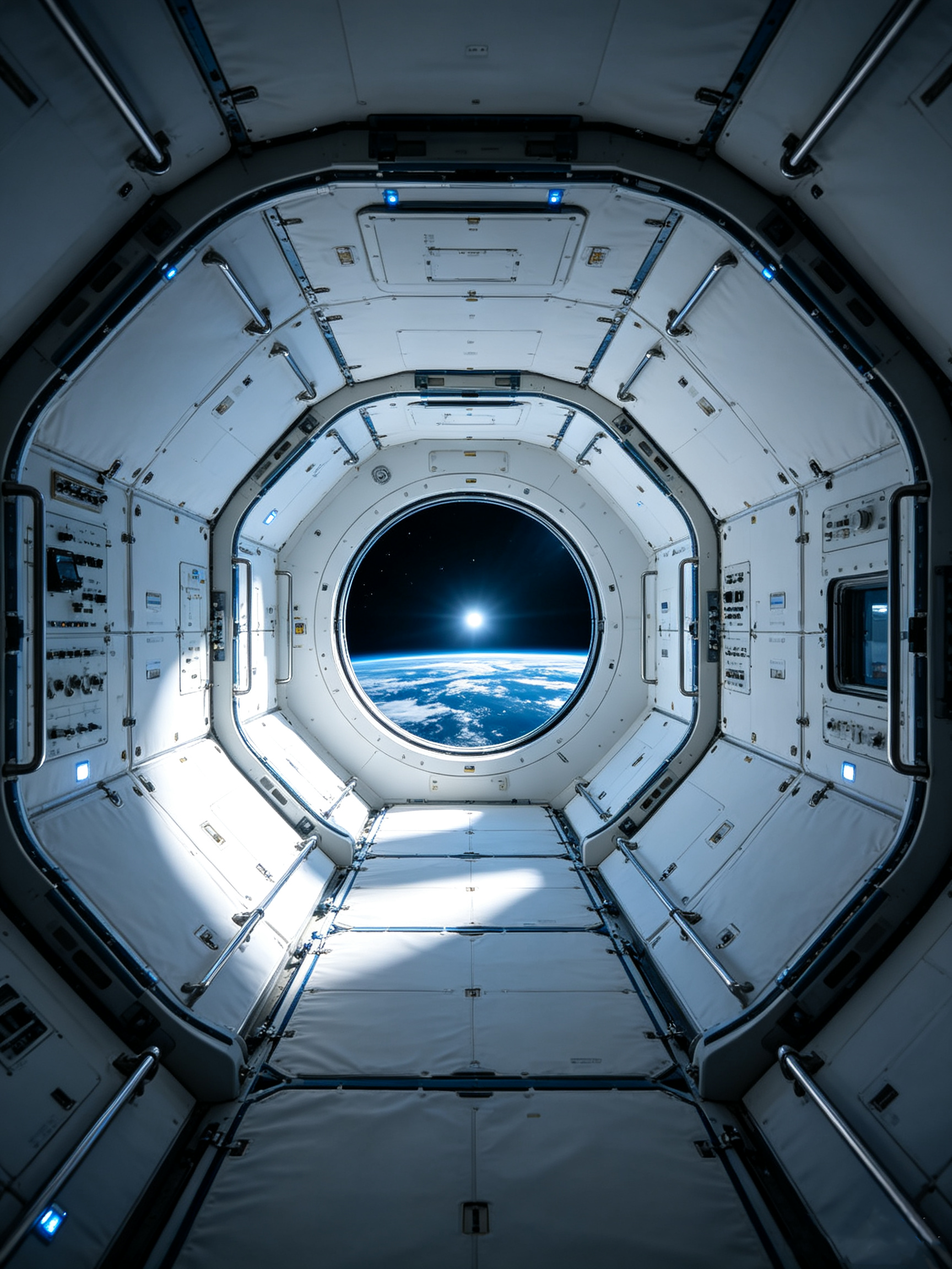
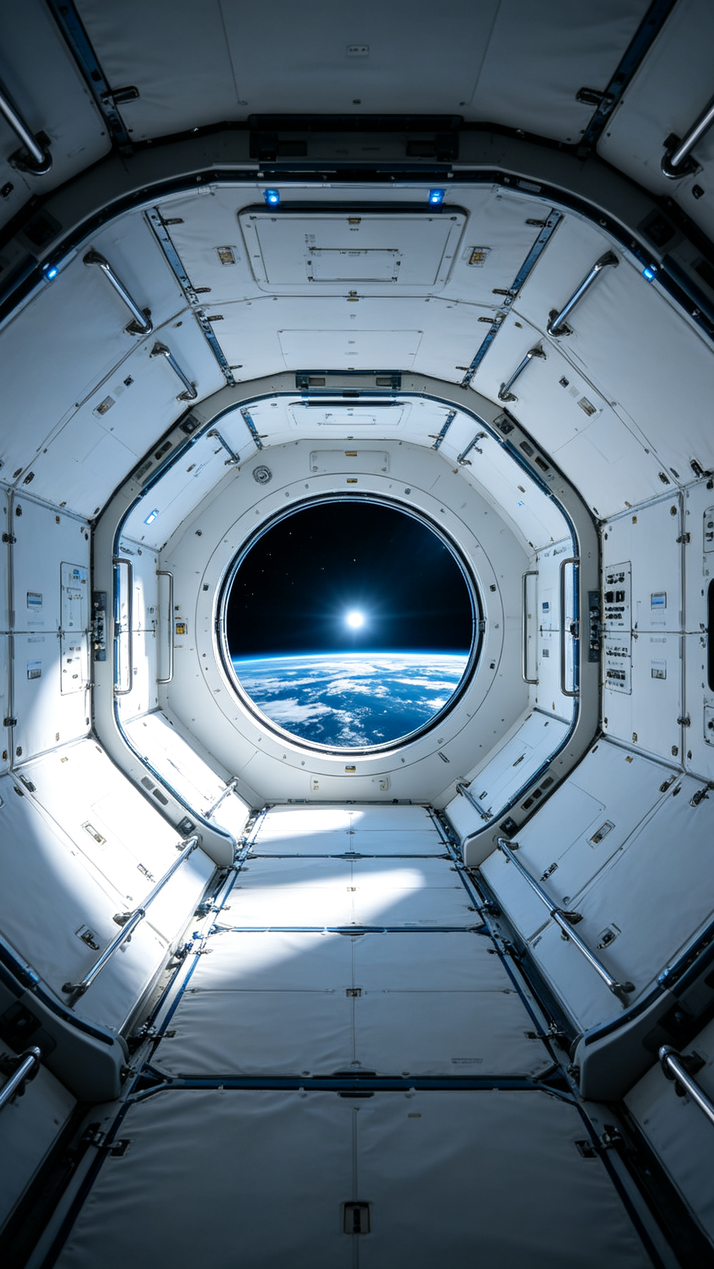
feat(theme): 新增 chapterPage 章节标题页，重做 contents 目录页面板
新增 chapterPage 页面类型：左侧 35% 纯色深蓝面板（logo + 编号水印）
+ 右侧白底标题区，用于分隔演示文稿的各个章节。编号通过
<div class="chapter-num">01</div> 手动放置。

contents 目录页同步调整：
- 左侧图片面板改用 9/16 固定比例 + 满高，不再靠百分比撑高，
  换成右侧 25px 蓝色实边；配套替换航天小图素材
- 目录项数字放弃渐变裁切文字（各渲染器表现不一致），改为实色 #dbe3f2
- 注释掉背景的 CONTENTS 水印字样
- 图片默认居中（:root img）取代仅 contentPage 生效的 margin

文档：SKILL.md 补充五种页面类型一览表与章节页写法示例；
组件体系文档补充目录页、章节页的实际示例。

diff --git a/themes/academic/index.css b/themes/academic/index.css
@@ -401,24 +401,24 @@ mark[center] {
   content: '';
   position: absolute;
   left: -10px;
-  top: -10px;
-  width: 40%;
-  height: 110%;
+  top: 0px;
+  aspect-ratio: 9/16;
+  height: 100%;
   background-image: url("../../themes/academic/images/航天小图.png");
   background-size: auto 100%;
   background-repeat: no-repeat;
+  background-position: center center;
   z-index: -1;
-  border-radius: 0 55% 55% 0;
+  /* border-radius: 0 55% 55% 0; */
   opacity: 1;
-  border: 10px solid rgb(40, 113, 196);
-  border-width: 10px 50px 50px 10px;
+  border-right: 25px solid rgb(40, 113, 196);
 }
 :root.contents h2{
   color: #ffffffdc;
   position: relative;
   margin-bottom: 40px;
 }
-:root.contents h2::before {
+/* :root.contents h2::before {
   content: 'CONTENTS';
   position: absolute;
   bottom: -30px;
@@ -427,7 +427,7 @@ mark[center] {
   font-size: 2.308rem;
   opacity: 0.1;
   z-index: 1;
-}
+} */
 :root.contents ul{
   font-size: 0.885rem;
   padding-left: 120px;
@@ -441,10 +441,11 @@ mark[center] {
 :root.contents ul li strong {
   font-size: 1.923rem;
   line-height: 60px;
-  background-image:-webkit-linear-gradient(105deg, transparent, #e7efff); 
+  /* background-image:-webkit-linear-gradient(105deg, transparent, #e7efff); 
 	-webkit-background-clip: text; 
 	-webkit-text-fill-color: transparent; 
-	text-shadow: 2px 2px 20px #0000000d;
+	text-shadow: 2px 2px 20px #0000000d; */
+  color: #dbe3f2;
   vertical-align: middle;
   margin-right: 20px;
 }
@@ -490,8 +491,147 @@ mark[center] {
 :root.contentPage {
   background: #fff;
 }
-:root.contentPage img {
-  margin: 5px;
+:root img {
+  display: block;
+  margin: auto;
+}
+
+/* ================================================================
+   章节标题页 — 左侧深蓝学术面板 + 右侧白底标题区
+   ================================================================ */
+
+/*
+ * 设计理念：左侧 35% 纯色深蓝面板 + logo 营造学术质感，
+ * 右侧白色区域放置章节标题。
+ *
+ * 用法：
+ *   <!-- _class: chapterPage -->
+ *   ## 章节标题
+ *   ### 副标题或描述
+ *
+ * 章节编号通过手动放置编号元素控制：
+ *   <div class="chapter-num">01</div>
+ */
+
+:root.chapterPage {
+  text-align: left;
+  justify-content: center;
+  background: #fff;
+  color: #003f88;
+  padding: 0 80px 0 calc(35% + 60px);
+  gap: 16px;
+}
+:root.chapterPage header,
+:root.chapterPage footer {
+  display: none;
+}
+
+/* ---- 左侧深蓝面板：纯色 + logo ---- */
+:root.chapterPage::before {
+  content: '';
+  position: absolute;
+  left: 0;
+  top: 0;
+  width: 35%;
+  height: 100%;
+  /* 数字：巨型水印，居中偏上（底部留空给 logo） */
+  display: flex;
+  align-items: center;
+  justify-content: center;
+  color: rgba(255, 255, 255, 0.055);
+  font-size: 6.5rem;
+  font-weight: 800;
+  letter-spacing: 2px;
+  text-align: center;
+  padding-bottom: 90px;
+  box-sizing: border-box;
+  /* 多层背景 */
+  background:
+    /* logo */
+    url("../../themes/academic/images/logo.svg") no-repeat center bottom 50px / 140px auto,
+    /* 纯色底色 */
+    #003f88;
+}
+
+/* ---- 章节编号手动覆盖（可选） — 渐变文字水印 ---- */
+:root.chapterPage .chapter-num {
+  position: absolute;
+  left: 0;
+  top: 50%;
+  transform: translateY(-50%);
+  width: 35%;
+  text-align: center;
+  font-size: 5.5rem;
+  font-weight: 800;
+  /* background: linear-gradient(180deg,
+    rgba(255, 255, 255, 0.14) 0%,
+    rgba(255, 255, 255, 0.04) 100%);
+  -webkit-background-clip: text;
+  background-clip: text;
+  -webkit-text-fill-color: transparent; */
+  color: #dbe3f2;
+  pointer-events: none;
+  z-index: 1;
+  line-height: 0.9;
+  letter-spacing: 2px;
+  margin: 0;
+  padding: 0;
+}
+/* 手动编号下方的装饰短横线 */
+/* :root.chapterPage .chapter-num::after {
+  content: '';
+  position: absolute;
+  left: 50%;
+  bottom: -20px;
+  transform: translateX(-50%);
+  width: 36%;
+  height: 1.5px;
+  background: linear-gradient(90deg,
+    transparent 0%,
+    rgba(255, 255, 255, 0.25) 25%,
+    rgba(255, 255, 255, 0.25) 75%,
+    transparent 100%);
+} */
+
+/* ---- 向后兼容：.chapter-label（已弃用） ---- */
+:root.chapterPage .chapter-label {
+  display: none;
+}
+
+/* ---- 右侧标题区 ---- */
+
+/* 章节主标题 */
+:root.chapterPage h1 {
+  font-size: 2rem;
+  color: #003f88;
+  font-weight: 600;
+  letter-spacing: 2px;
+  margin: 0;
+}
+:root.chapterPage h2 {
+  font-size: 2rem;
+  color: #003f88;
+  font-weight: 600;
+  letter-spacing: 2px;
+  margin: 0;
+}
+/* 章节副标题 / 描述 */
+:root.chapterPage h3 {
+  font-size: 1rem;
+  color: #64748b;
+  font-weight: 400;
+  letter-spacing: 1px;
+  margin: 0;
+  padding: 0;
+}
+:root.chapterPage h3::before {
+  display: none;
+}
+:root.chapterPage p {
+  color: #64748b;
+  font-size: 0.923rem;
+  letter-spacing: 1px;
+  margin: 0;
 }
 
 

diff --git a/.claude/skills/ppt-generator/SKILL.md b/.claude/skills/ppt-generator/SKILL.md
@@ -64,6 +64,36 @@ _header: 页眉文字
 ![h:120px](../../themes/academic/images/logo.svg)
 ```
 
+### 页面类型一览
+
+| `_class` | 用途 | 说明 |
+|---|---|---|
+| `homePage` | 封面 | 全屏图片背景 + 蓝色渐变遮罩，h1 通栏标题栏 |
+| `contents` | 目录页 | 深蓝背景 + 左侧图片面板，列表项用 `**01**` 格式的数字 |
+| `chapterPage` | 章节标题页 | 左侧纯色深蓝面板（编号水印 + logo）+ 右侧白底标题区 |
+| `contentPage` | 内容页 | 白底 + 页眉，最常用的工作页面 |
+| `thanksPage` | 感谢页 | 深蓝背景 + 图片，居中致谢文字 |
+
+**章节页示例：**
+
+```markdown
+---
+
+<!--
+_class: chapterPage
+-->
+
+<div class="chapter-num">01</div>
+
+## 章节标题
+
+### 章节描述或副标题
+
+---
+```
+
+> **章节编号需手写**：左侧面板的编号由 `<div class="chapter-num">01</div>` 手动指定，主题没有实现 CSS 自动计数器。不写这一行时左侧面板只显示 logo。
+
 ### 关于 `<br>` 标签
 
 项目中的组件间距由 CSS 主题内置提供，不需要使用 `<br>` 标签来制造间距。Markdown 原生的空行已经足够分隔不同块级元素。

diff --git a/themes/academic/academic组件体系.md b/themes/academic/academic组件体系.md
@@ -15,6 +15,31 @@ _class: homePage
 
 ---
 
+<!--
+_class: contents
+-->
+
+## 目录
+
+- **01** 为什么需要新方案？
+- **02** Marp 是什么？
+- **03** 本项目做了什么？
+- **04** 组件生态一览
+- **05** AI 辅助工作流
+- **06** 快速上手
+
+---
+
+<!--
+_class: chapterPage
+-->
+
+## Markdown 标准语法
+
+### 标题 · 文本 · 表格 · 列表 · 引用 · 代码 · 公式 · 链接
+
+---
+
 <!-- _header: Markdown 标准语法 — 标题与文本样式 -->
 
 <grid cols="2">
